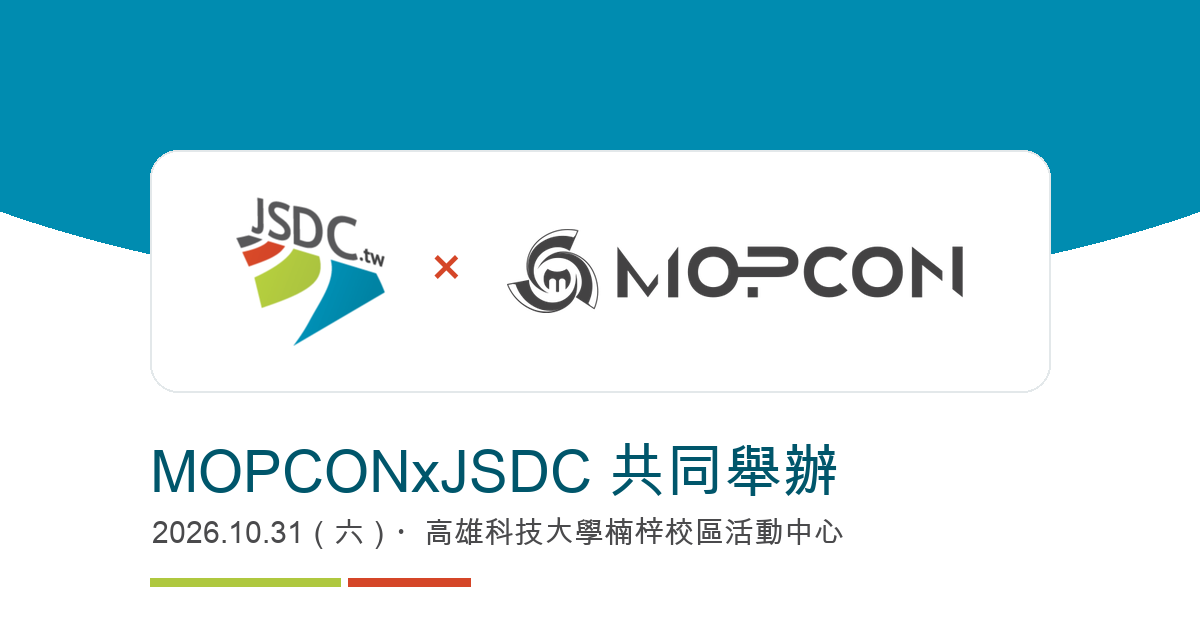
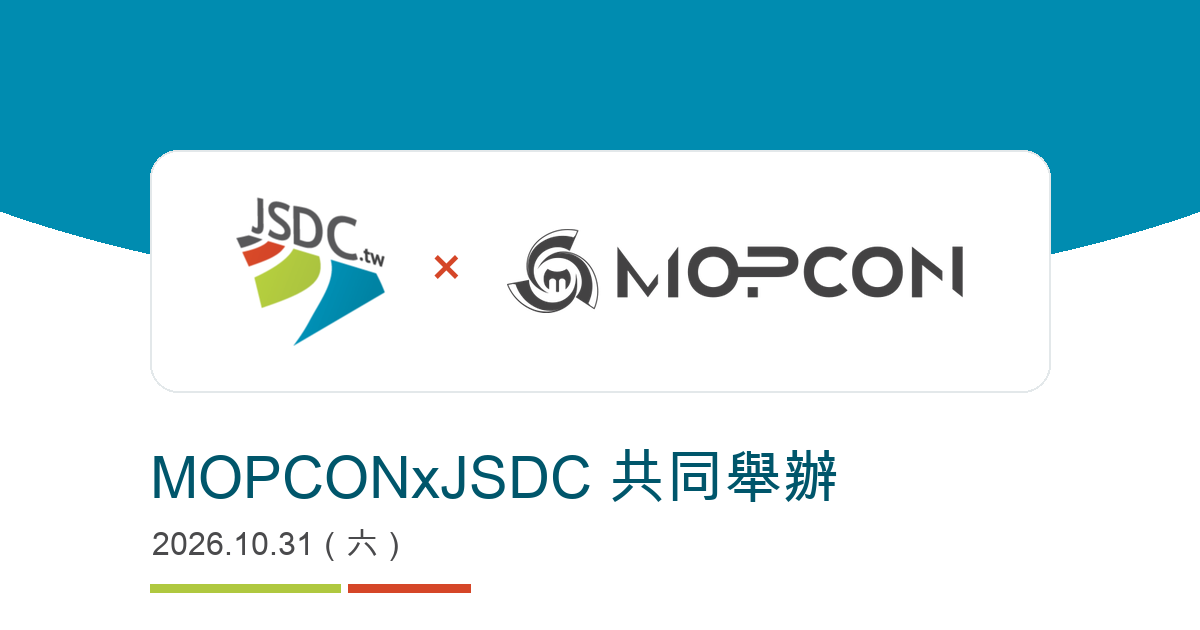
copy: "JavaScript 開發者年會" -> "開發者年會"
- Applied to all 5 occurrences: hero sub-line, the About lead, meta
  description, og:description and the JSON-LD Event description, so the
  page copy and its metadata stay in sync.
- Dropped the now-orphaned Latin/CJK space in "台灣的 開發者年會".
- Regenerated og.png: removed the venue line, which is no longer on the
  page (venue details live on MOPCON's own site).

Claude-Session: https://claude.ai/code/session_017k2uzL1Fg1d6tkN8wZXH1G

Changed region(s): [[0.1233, 0.6937, 0.7092, 0.9651]]

diff --git a/index.html b/index.html
@@ -4,7 +4,7 @@
 <meta charset="utf-8">
 <meta name="viewport" content="width=device-width, initial-scale=1">
 <title>JSDC 2026｜MOPCONxJSDC 共同舉辦</title>
-<meta name="description" content="JSDC 2026 JavaScript 開發者年會。MOPCONxJSDC 共同舉辦，2026.10.31（六）。">
+<meta name="description" content="JSDC 2026 開發者年會。MOPCONxJSDC 共同舉辦，2026.10.31（六）。">
 <!-- canonical は自分のドメイン。GitHub Pages の Custom domain 設定（2026.jsdc.tw）と
      ルートの CNAME ファイルに合わせてある。ドメインを変えるときは
      CNAME / canonical / og:url / og:image / JSON-LD の url をまとめて変える。 -->
@@ -17,7 +17,7 @@
 <meta property="og:type" content="website">
 <meta property="og:site_name" content="JSDC 2026">
 <meta property="og:title" content="JSDC 2026｜MOPCONxJSDC 共同舉辦">
-<meta property="og:description" content="JSDC 2026 JavaScript 開發者年會。MOPCONxJSDC 共同舉辦，2026.10.31（六）。">
+<meta property="og:description" content="JSDC 2026 開發者年會。MOPCONxJSDC 共同舉辦，2026.10.31（六）。">
 <meta property="og:url" content="https://2026.jsdc.tw/">
 <meta property="og:image" content="https://2026.jsdc.tw/assets/img/og.png">
 <meta property="og:image:width" content="1200">
@@ -35,7 +35,7 @@
   "@context": "https://schema.org",
   "@type": "Event",
   "name": "JSDC 2026",
-  "description": "JSDC 2026 JavaScript 開發者年會。MOPCONxJSDC 共同舉辦。",
+  "description": "JSDC 2026 開發者年會。MOPCONxJSDC 共同舉辦。",
   "url": "https://2026.jsdc.tw/",
   "image": "https://2026.jsdc.tw/assets/img/og.png",
   "startDate": "2026-10-31",
@@ -114,7 +114,7 @@
       </div>
       <p class="joint-badge">JSDC 2026</p>
       <h1><span class="hero-tag">MOPCONxJSDC 共同舉辦</span></h1>
-      <p class="hero-sub">JavaScript 開發者年會</p>
+      <p class="hero-sub">開發者年會</p>
       <p class="hero-meta">
         <span class="date">2026.10.31（六）</span>
       </p>
@@ -133,7 +133,7 @@
         <span class="jsdc-rule" aria-hidden="true"><i></i><i></i><i></i></span>
         <span class="eyebrow">ABOUT</span>
         <h2 id="about-t">關於 JSDC</h2>
-        <p class="lead about-lead">JSDC 是台灣的 JavaScript 開發者年會，由社群自主籌辦。</p>
+        <p class="lead about-lead">JSDC 是台灣的開發者年會，由社群自主籌辦。</p>
         <div class="btn-row is-center">
           <a class="btn btn-teal" href="https://jsdc.tw" target="_blank" rel="noopener">官方網站</a>
           <a class="btn btn-line" href="https://www.facebook.com/JSDC.TW/" target="_blank" rel="noopener">Facebook</a>
